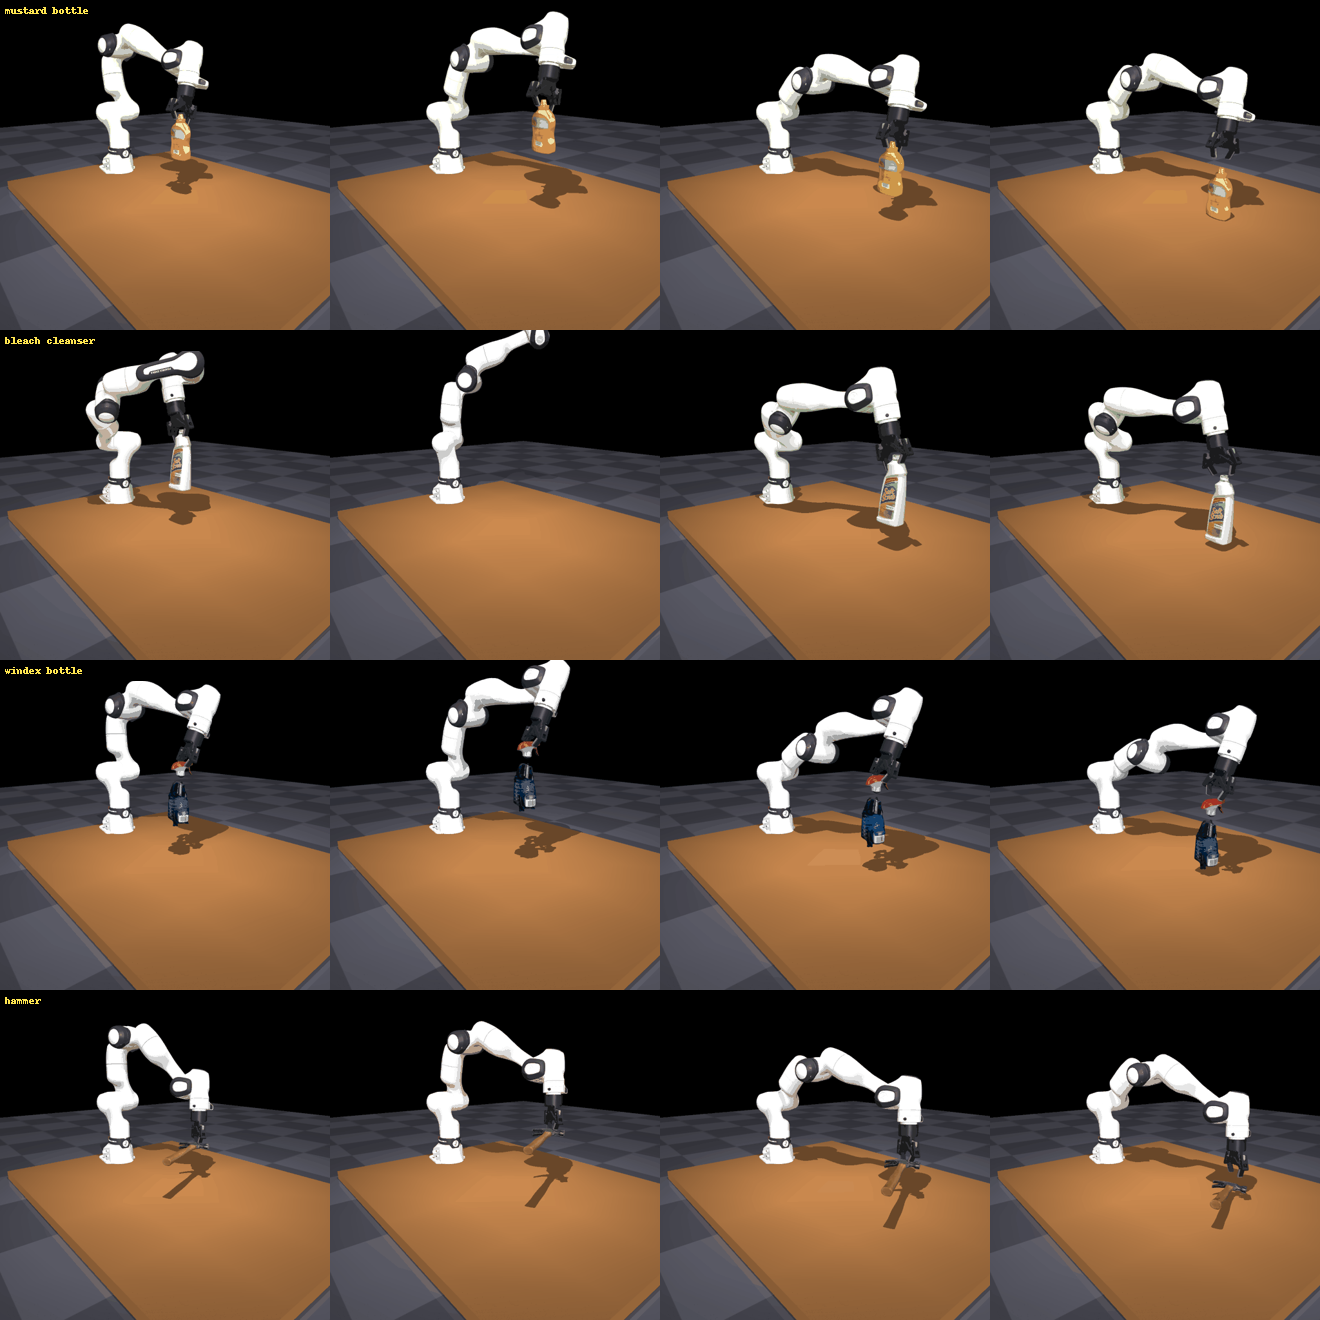
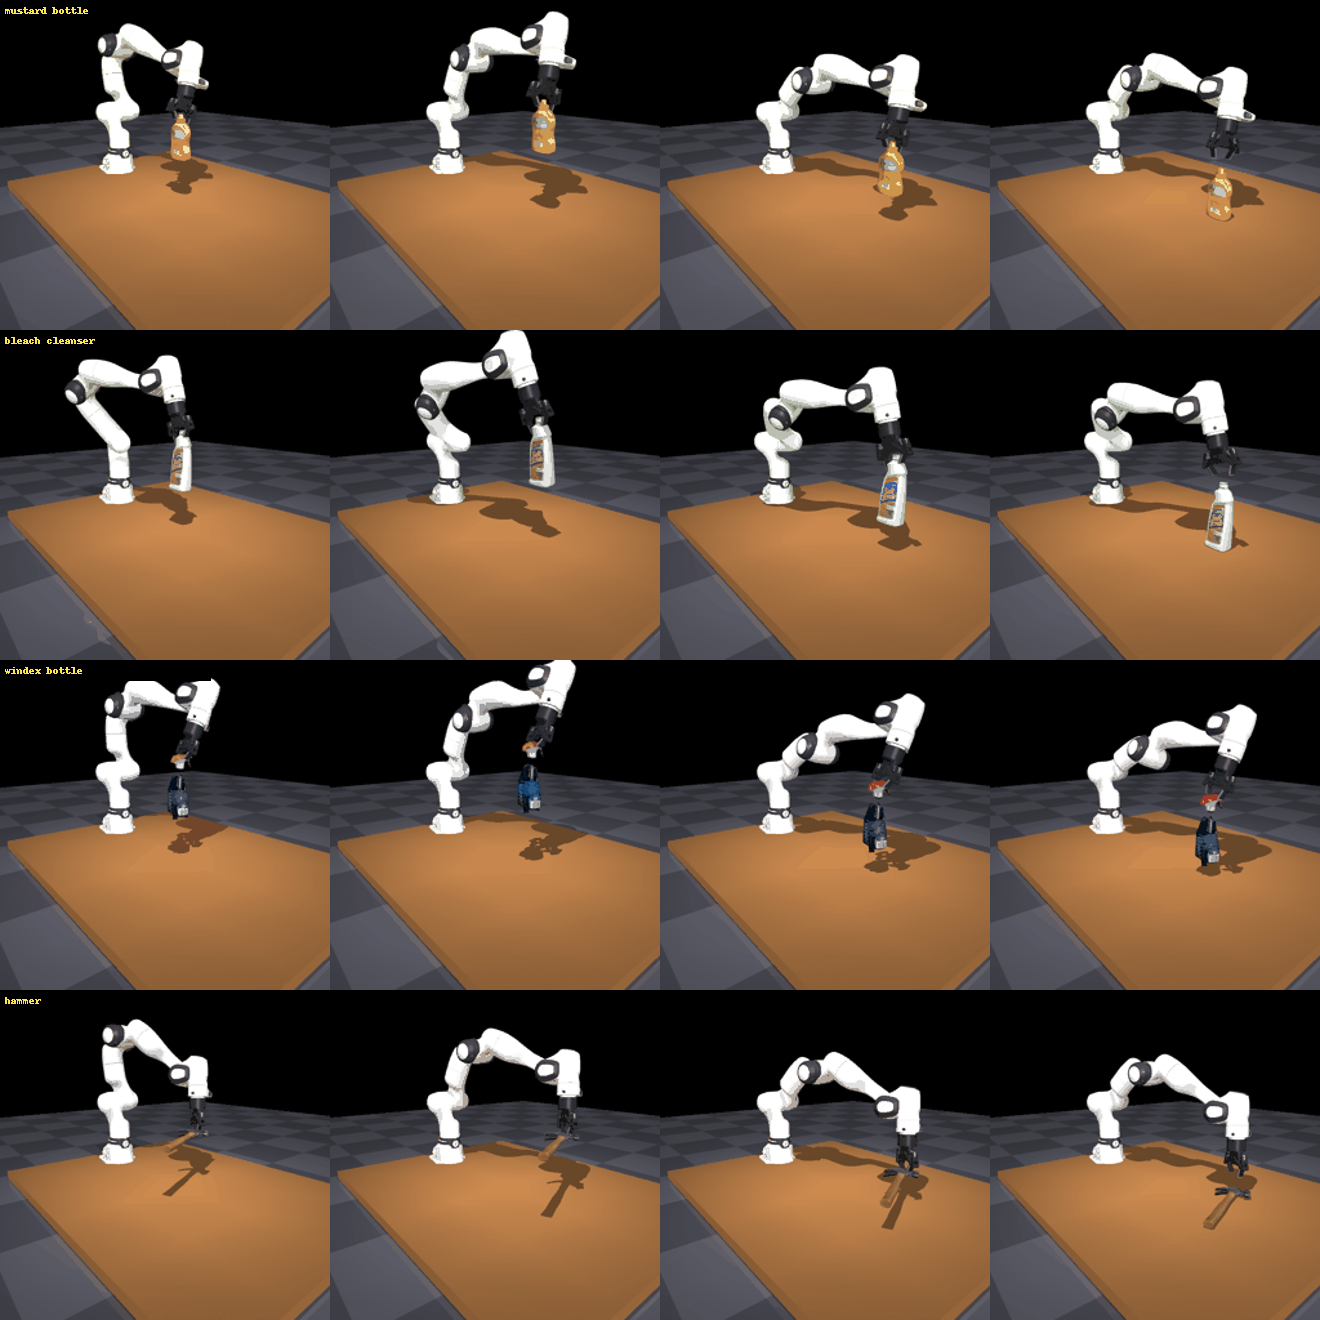
VLA demo review fixes: matte object material, IK continuity, gravity place-settle, side-grasp pedestal, 256px gifs
Addresses manual-review feedback on the MuJoCo demos:
- object material set matte (specular/reflectance ~0) + lower light specular -> no blown-out highlights.
- ik(): pick the in-joint-limit solution CLOSEST to the previous config -> smooth arm motion (was swinging).
- place-settle un-tilts the object to its stable rest (identity) under gravity -> objects lie flat/upright
  (hammer no longer ends mid-fall head-down).
- side grasps (approach >45deg from vertical, e.g. plate rim) stand the object on a support pedestal for reach.
- gifs downscaled to 256px (+128-color palette) -> ~0.36MB each.
Plate still validator-REJECTED (side-grasp transport hits FR3 joint limits) -> kept as the rejected example.

Claude-Session: https://claude.ai/code/session_015wMv8RC3RzWJhCvPdhUJDd

diff --git a/render_demo.py b/render_demo.py
@@ -49,16 +49,19 @@ GRASP_ID = int(_cand[np.argmin(_g["net_tilt_deg"][_cand])])
 _half_z = float(u.obj_half[2])
 # grasp_point/approach/closing/base_pos are in the GRASP FRAME (object base on the table at z=0). We place the
 # object base on the table, so the grasp frame == world and the TCP is grasp_point directly (no AABB offset).
-_tcp_w = _g["grasp_point"][GRASP_ID].astype(float).copy()
+_tcp0 = _g["grasp_point"][GRASP_ID].astype(float).copy()       # grasp frame: object base on table at z=0
 _ap = _g["approach"][GRASP_ID] / (np.linalg.norm(_g["approach"][GRASP_ID]) + 1e-9)   # into object = ee local +z
 _cl = _g["closing"][GRASP_ID]
 _y = _cl - (_cl @ _ap) * _ap; _y /= (np.linalg.norm(_y) + 1e-9); _x = np.cross(_y, _ap)   # ee axes (world; object=I)
 GRASP_R = np.stack([_x, _y, _ap], axis=1); GRASP_Q = _R2q(GRASP_R)
+# SIDE grasps (approach far from vertical, e.g. a flat plate's rim) need the object lifted on a support so the
+# gripper can reach around the rim without the table blocking it. Top-down grasps (bottles, hammer handle) untouched.
+PEDESTAL_H = 0.07 if float(_av[GRASP_ID]) > 45.0 else 0.0
+_tcp_w = _tcp0 + np.array([0.0, 0.0, PEDESTAL_H])
 _ee0 = _tcp_w - TCP_OFFSET * _ap                              # ee(2f85_base) sits behind the TCP along -approach
-# grip half-width = object half-extent along the closing axis in a band around the grasp point. Convert the mesh
-# vertices (mesh frame) INTO the grasp frame: mesh AABB center -> [0,0,half_z] (grasp-frame AABB center).
+# grip half-width = object half-extent along the closing axis in a band around the grasp point (grasp frame, unshifted).
 _gv = _tm.vertices - _cen + np.array([0.0, 0.0, _half_z])
-_Vr = _gv - _tcp_w
+_Vr = _gv - _tcp0
 _band = (np.abs(_Vr @ _ap) < 0.03) & (np.abs(_Vr @ _x) < 0.02)
 GRIP_HALF = float(np.abs((_Vr @ _y)[_band]).max()) if int(_band.sum()) > 8 else float(min(u.obj_half[0], u.obj_half[1]))
 print(f"grasp {GRASP_ID}: approach {_av[GRASP_ID]:.1f}deg from vert | grip_half {GRIP_HALF*1000:.0f}mm | tcp {np.round(_tcp_w,3)}", flush=True)
@@ -87,15 +90,18 @@ def _solve(target, q0):
     return r, inlim
 
 def ik(target_world, q0, n_seeds=12):
-    """limit-aware multi-seed IK: prefer the continuity seed, else search seeds for an in-JOINT-LIMIT solution
-    (the FR3 is 7-DOF redundant; the transport/release reach can push a single-seed branch past a limit)."""
+    """limit-aware multi-seed IK that keeps CONTINUITY: gather all in-joint-limit solutions (continuity seed +
+    random seeds) and return the one CLOSEST to q0 in joint space. Returning the first random in-limits branch
+    made the arm swing wildly between waypoints (bleach); the nearest branch keeps the motion smooth."""
     target = base_inv * target_world
+    cands = []
     r, inlim = _solve(target, q0)
-    if inlim: return r
+    if inlim: cands.append(r)
     for _ in range(n_seeds):
         s = np.concatenate([QMIN + _ikrng.random(7) * (QMAX - QMIN), q0[7:]])
         r2, inlim2 = _solve(target, s)
-        if inlim2: return r2
+        if inlim2: cands.append(r2)
+    if cands: return min(cands, key=lambda c: float(np.linalg.norm(c[:7] - q0[:7])))
     return r
 
 def fk_ee(qpos):
@@ -229,7 +235,7 @@ Hd = len(drop_rel)
 drop_end = np.degrees(_reorient[d_ep])
 print(f"drop WM ep {d_ep} (min-reorient, place regime): settle reorient {drop_end:.1f} deg over Hd={Hd}", flush=True)
 
-obj_ground = sapien.Pose(p=[0.0, 0.0, OBJ_Z])
+obj_ground = sapien.Pose(p=[0.0, 0.0, OBJ_Z + PEDESTAL_H])     # object rests on the support pedestal (if any)
 # warmup: let the table glb texture + materials stream in before capturing (early frames render gray/half-lit otherwise)
 set_state(q["rest"], GRIP_OPEN, obj_ground)
 for _ in range(12): env.render()
@@ -277,11 +283,14 @@ for g in np.linspace(GRIP_CLOSE, GRIP_OPEN, 4): set_state(q["release"], g, None,
 # accelerating fall (z(s) = z_rel - (z_rel-z_final)*s^2, s=time), NOT the WM's evenly-spaced settle frames played
 # slowly. Compress to N_DROP frames (short real fall ~0.1s) + a couple of rest frames so the placed pose reads.
 rq = np.asarray(rel_pose.q); z_rel = float(rel_pose.p[2]); xy = rel_pose.p[:2]
-q_final = quat_norm(quat_mul(drop_rel[-1], rq)); z_final = rest_z(q_final)
+# a PLACE returns the object to a STABLE rest = the pose it was placed in (identity), so it settles flat/upright
+# (fixes the hammer landing tilted head-down and the clip ending before the tail settles). Fall under gravity,
+# un-tilting rq -> identity, then hold at the flat rest for a few frames.
+q_final = np.array([1.0, 0, 0, 0]); z_final = rest_z(q_final) + PEDESTAL_H   # settle back onto the pedestal/table
 N_DROP = 5
 for i in range(N_DROP):
     s = i / (N_DROP - 1)
-    qf = quat_norm(quat_mul(drop_rel[int(round(s * (Hd - 1)))], rq))   # resample the WM settle onto the fall
+    qf = quat_norm((1 - s) * rq + s * q_final)                        # nlerp release-tilt -> stable rest
     z = max(z_rel - (z_rel - z_final) * (s * s), rest_z(qf))           # gravity: starts slow, accelerates
     set_state(q["release"], GRIP_OPEN, sapien.Pose(p=[xy[0], xy[1], z], q=qf), "place_settle", False)
 for _ in range(3): set_state(q["release"], GRIP_OPEN, sapien.Pose(p=[xy[0], xy[1], z_final], q=q_final), "place_settle", False)
@@ -332,6 +341,6 @@ np.savez(f"figures/vla_trajectory_{TAG}.npz", rgb=rgb,
          obj_half=OBJ_HALF_ARR, P_ee=np.asarray(P_ee), M=M,
          qlimits=robot.get_qlimits().cpu().numpy().reshape(-1, 2),
          obj_id=OBJ_ID, grasp_id=GRASP_ID, grasp_source="dataset",
-         grasp_net_tilt=float(_g["net_tilt_deg"][GRASP_ID]), grip_half=float(GRIP_HALF),
+         grasp_net_tilt=float(_g["net_tilt_deg"][GRASP_ID]), grip_half=float(GRIP_HALF), pedestal_h=float(PEDESTAL_H),
          joint_names=np.array([j.name for j in robot.active_joints]))   # ManiSkill qpos order -> remap to MuJoCo for render
 print(f"wrote figures/vla_demo_{TAG}.gif ({N} frames) + vla_trajectory_{TAG}.npz ({len(traj_log)} recs)", flush=True)

diff --git a/render_mujoco.py b/render_mujoco.py
@@ -22,7 +22,7 @@ wb = spec.worldbody
 # place the FR3 base at the ManiSkill world pose (base at x=-0.5) so the logged world object poses line up
 base = next(b for b in wb.bodies if b.name == "base"); base.pos = [-0.5, 0.0, 0.0]
 # lights
-wb.add_light(pos=[0.4, -0.4, 1.6], dir=[-0.25, 0.25, -1], diffuse=[0.7, 0.7, 0.7], specular=[0.2, 0.2, 0.2])
+wb.add_light(pos=[0.4, -0.4, 1.6], dir=[-0.25, 0.25, -1], diffuse=[0.7, 0.7, 0.7], specular=[0.03, 0.03, 0.03])
 # checker floor material + a wood-toned table top (top surface at z=0)
 tex = spec.add_texture(name="grid", type=mujoco.mjtTexture.mjTEXTURE_2D, builtin=mujoco.mjtBuiltin.mjBUILTIN_CHECKER,
                        width=300, height=300, rgb1=[0.28, 0.28, 0.32], rgb2=[0.36, 0.36, 0.4])
@@ -30,6 +30,10 @@ spec.add_material(name="gridmat", textures=["", "grid"], texrepeat=[8, 8], refle
 wb.add_geom(type=mujoco.mjtGeom.mjGEOM_PLANE, size=[3, 3, 0.1], pos=[0, 0, -0.041], material="gridmat")
 tt = wb.add_body(name="table_top", pos=[0, 0, -0.02])
 tt.add_geom(type=mujoco.mjtGeom.mjGEOM_BOX, size=[0.7, 0.55, 0.02], rgba=[0.62, 0.42, 0.24, 1])
+PED_H = float(d["pedestal_h"]) if "pedestal_h" in d.files else 0.0   # support that lifts a low-grasp object (e.g. plate)
+if PED_H > 1e-4:
+    pb = wb.add_body(name="pedestal", pos=[0, 0, PED_H / 2])
+    pb.add_geom(type=mujoco.mjtGeom.mjGEOM_BOX, size=[0.05, 0.05, PED_H / 2], rgba=[0.35, 0.35, 0.38, 1])
 # object: the REAL scanned mesh + texture (not a box proxy). Center the mesh AABB at the mocap origin so it
 # lines up with the WM object pose (which treats the object as centered at the actor origin).
 DSET = "/misc/kcgscratch1/MengyeGroup/yy5259/datasets/cdwm-grasp-dataset"
@@ -47,6 +51,9 @@ if os.path.exists(texf):
     except Exception:
         try: mat.textures = ["objtex"]
         except Exception: mat = None
+    if mat is not None:                                     # matte object: kill blown-out specular highlights
+        try: mat.specular = 0.05; mat.shininess = 0.05; mat.reflectance = 0.0
+        except Exception: pass
     matname = "objmat" if mat is not None else None
 ob = wb.add_body(name="cdwm_obj", mocap=True, pos=[0, 0, half[2]])
 g = ob.add_geom(type=mujoco.mjtGeom.mjGEOM_MESH, meshname="objmesh", pos=(-cen).tolist())
